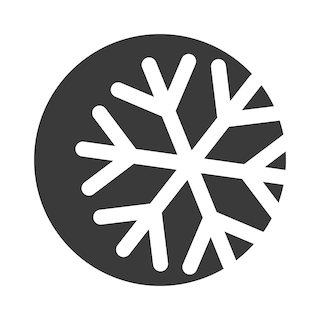
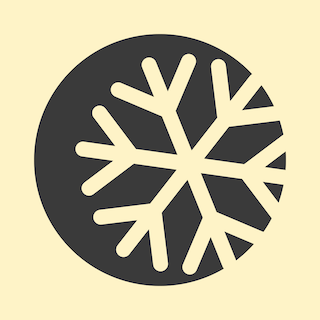
colors

diff --git a/src/assets/global.css b/src/assets/global.css
@@ -1,7 +1,7 @@
 html {
   @apply box-border;
-  @apply bg-white;
-  @apply text-neutral-700;
+  @apply bg-amber-100;
+  @apply text-neutral-800;
   @apply font-base;
   @apply antialiased;
   @apply mx-4;
@@ -35,6 +35,7 @@ a:visited {
 }
 a:hover {
   @apply decoration-none;
+  @apply text-blue-800;
 }
 
 img {
@@ -66,12 +67,12 @@ blockquote {
   @apply block;
   @apply my-6;
   @apply border-l-4;
-  @apply border-neutral-400;
+  @apply border-neutral-500;
   @apply pl-4;
 }
 
 blockquote p {
-  @apply text-neutral-500;
+  @apply text-neutral-600;
   @apply italic;
 }
 
